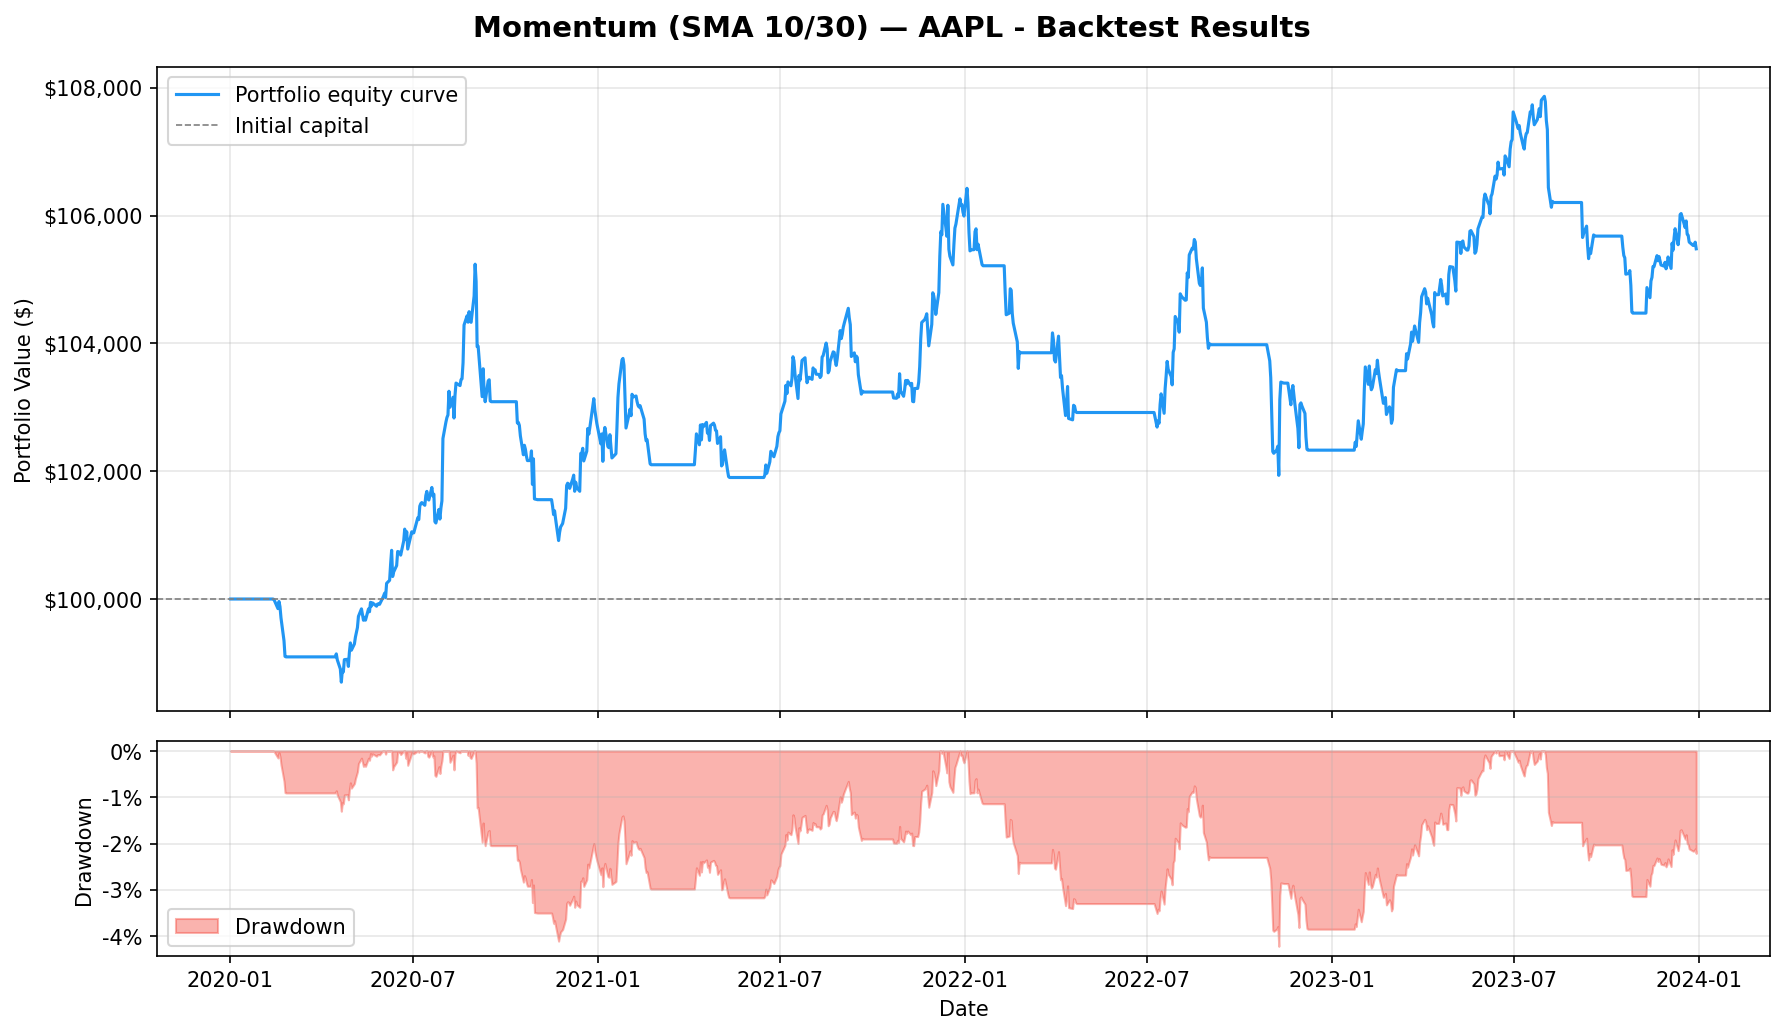
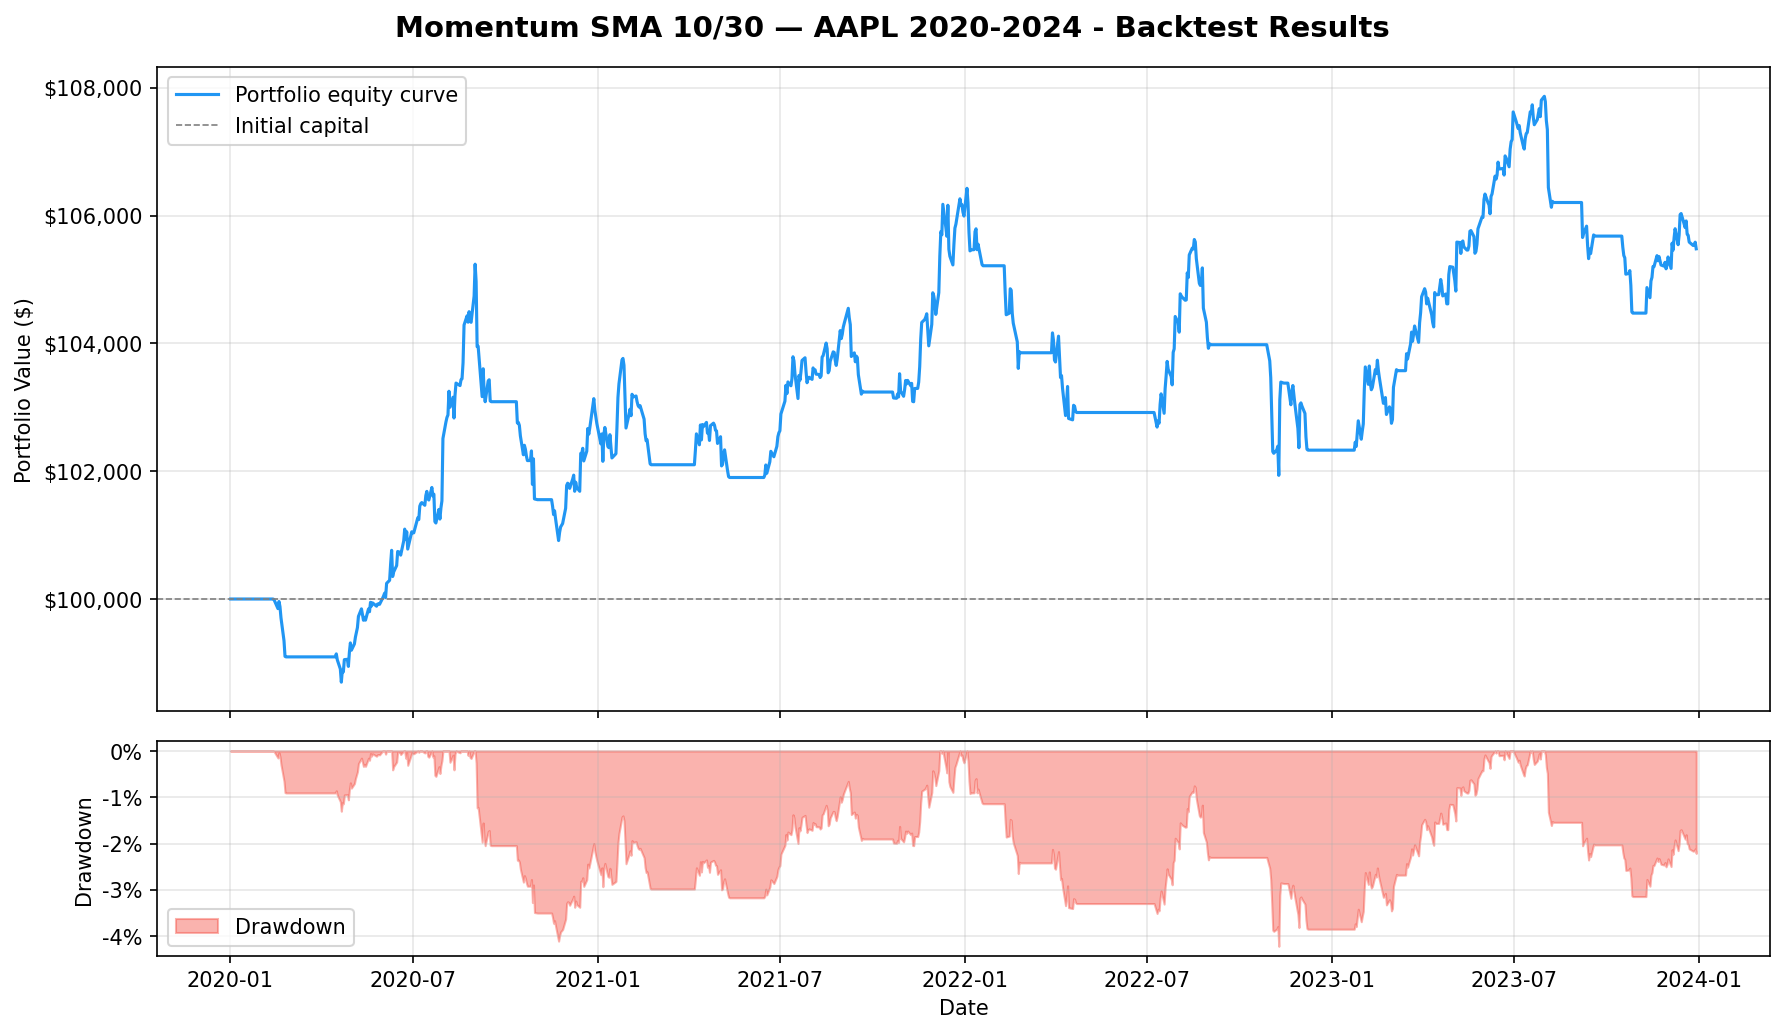
Added a ReadMe file, the tearsheet that was generated, and the requirements.txt

Changed region(s): [[0.2158, 0.0, 0.7707, 0.0619], [0.5241, 0.9594, 0.5549, 0.9903]]

diff --git a/README.md b/README.md
@@ -1,0 +1,139 @@
+# Algorithmic Trading Backtester
+
+An event-driven algorithmic trading backtester built in Python, designed to simulate realistic trading conditions with slippage, commission, and walk-forward validation.
+
+Built as a portfolio project to demonstrate quantitative finance and software engineering skills relevant to Quant Developer, Trading, and Risk roles.
+
+---
+
+## Architecture
+
+The system is event-driven — meaning it replays historical data one bar at a time and routes events through a queue, mirroring the architecture of live trading systems.
+```
+MarketEvent → Strategy → SignalEvent → Portfolio → OrderEvent → Broker → FillEvent → Portfolio
+```
+
+This design prevents lookahead bias (accidentally using future data) and makes the system easy to extend with new strategies or execution models.
+
+### Project structure
+```
+backtester/
+├── data/               # Market data fetching and validation
+│   ├── models.py       # DataBar — immutable OHLCV unit
+│   └── fetcher.py      # yfinance wrapper with auto-adjustment
+├── engine/             # Core event-driven engine
+│   ├── events.py       # MarketEvent, SignalEvent, OrderEvent, FillEvent
+│   ├── backtest.py     # Main event loop
+│   ├── portfolio.py    # Position tracking and P&L
+│   └── broker.py       # Simulated execution with slippage + commission
+├── strategies/         # Pluggable trading strategies
+│   ├── base.py         # Abstract base class
+│   ├── momentum.py     # SMA crossover momentum strategy
+│   └── mean_reversion.py # RSI-based mean reversion strategy
+├── analytics/          # Performance measurement
+│   ├── performance.py  # Sharpe, Sortino, CAGR, max drawdown
+│   ├── tearsheet.py    # Console report + equity curve chart
+│   ├── walkforward.py  # Walk-forward overfitting detection
+│   └── optimizer.py    # Parameter grid search
+└── tests/              # 20 pytest unit tests
+```
+
+---
+
+## Strategies
+
+### Momentum (SMA Crossover)
+Generates a LONG signal when the fast moving average (10-day) crosses above the slow moving average (30-day), indicating upward momentum. Generates a SHORT signal on the reverse crossover.
+
+### Mean Reversion (RSI)
+Uses the Relative Strength Index (RSI) to identify oversold (RSI < 30) and overbought (RSI > 70) conditions, betting that extreme price moves revert to the mean.
+
+---
+
+## Performance Analytics
+
+Every backtest produces a full tear sheet including:
+
+| Metric | Description |
+|---|---|
+| Total return | Raw % gain/loss over the period |
+| CAGR | Compound annual growth rate |
+| Sharpe ratio | Annualized return per unit of risk (252 trading days) |
+| Sortino ratio | Like Sharpe but only penalizes downside volatility |
+| Max drawdown | Largest peak-to-trough equity decline |
+
+### Sample result — Momentum SMA 10/30 on AAPL (2020–2024)
+```
+Total return :   5.48%
+CAGR         :   1.35%
+Sharpe ratio :   -1.27
+Max drawdown :   4.22%
+Bars         :   1,006
+```
+
+![Equity curve](tearsheet.png)
+
+---
+
+## Overfitting Detection
+
+A key feature of this backtester is walk-forward testing — splitting data into rolling in-sample (training) and out-of-sample (test) windows to measure how much performance degrades on unseen data.
+
+A large gap between in-sample and out-of-sample Sharpe ratios indicates the strategy has been overfit to historical data — one of the most common failure modes in algorithmic trading.
+
+---
+
+## Getting started
+```bash
+git clone https://github.com/lol-itsfab/Backtester.git
+cd Backtester
+python -m venv venv
+venv\Scripts\Activate.ps1       # Windows
+pip install -r requirements.txt
+pytest tests/ -v
+```
+
+---
+
+## Running a backtest
+```python
+from data.fetcher import fetch_ohlcv
+from engine.backtest import BacktestEngine
+from strategies.momentum import MomentumStrategy
+from analytics.performance import PerformanceAnalyzer
+from analytics.tearsheet import print_tearsheet, plot_equity_curve
+
+bars = fetch_ohlcv("AAPL", "2020-01-01", "2024-01-01")
+engine = BacktestEngine(bars, MomentumStrategy, initial_capital=100_000)
+portfolio = engine.run()
+
+analyzer = PerformanceAnalyzer(portfolio.equity_curve)
+print_tearsheet(analyzer, "Momentum SMA 10/30 — AAPL")
+plot_equity_curve(analyzer, "Momentum SMA 10/30 — AAPL")
+```
+
+---
+
+## Requirements
+
+Generate the requirements file:
+```powershell
+pip freeze > requirements.txt
+```
+
+- Python 3.11+
+- yfinance
+- pandas
+- matplotlib
+- pytest
+
+---
+
+## Skills demonstrated
+
+- Event-driven system architecture in Python
+- Financial data pipeline with adjusted price handling
+- Quantitative indicators: SMA, RSI, Sharpe, Sortino, CAGR, max drawdown
+- Overfitting detection via walk-forward validation
+- Parameter optimization with grid search
+- Unit testing with pytest (20 tests)
